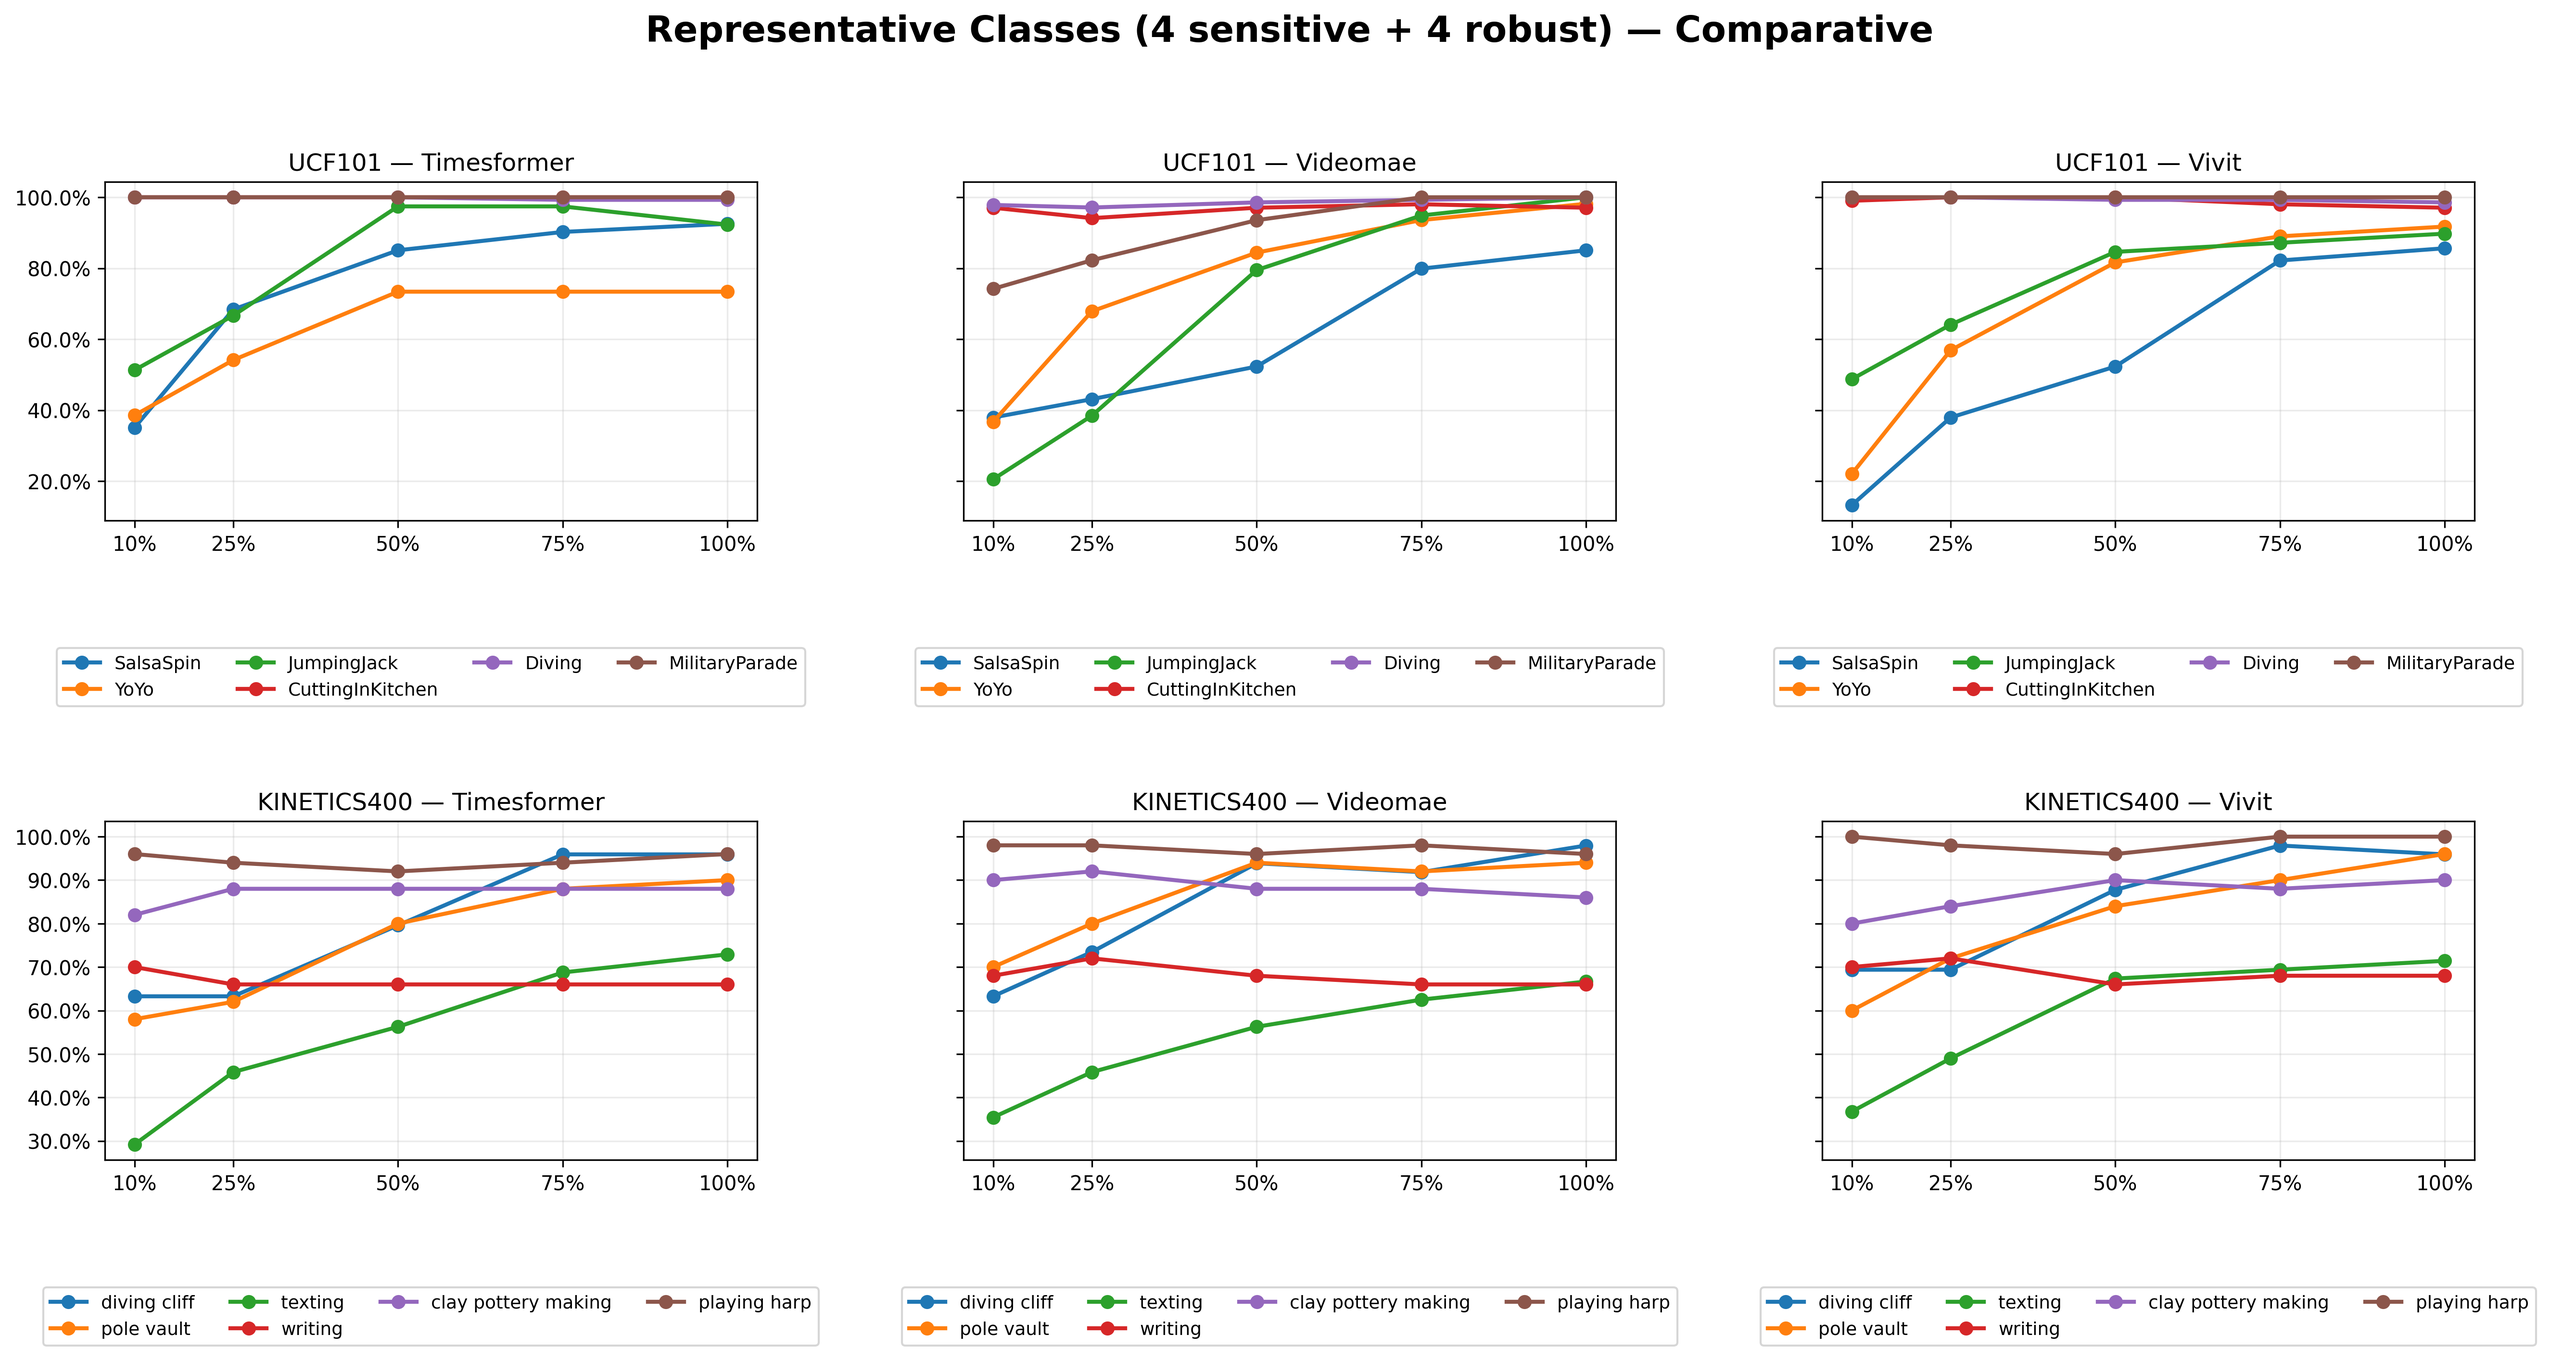
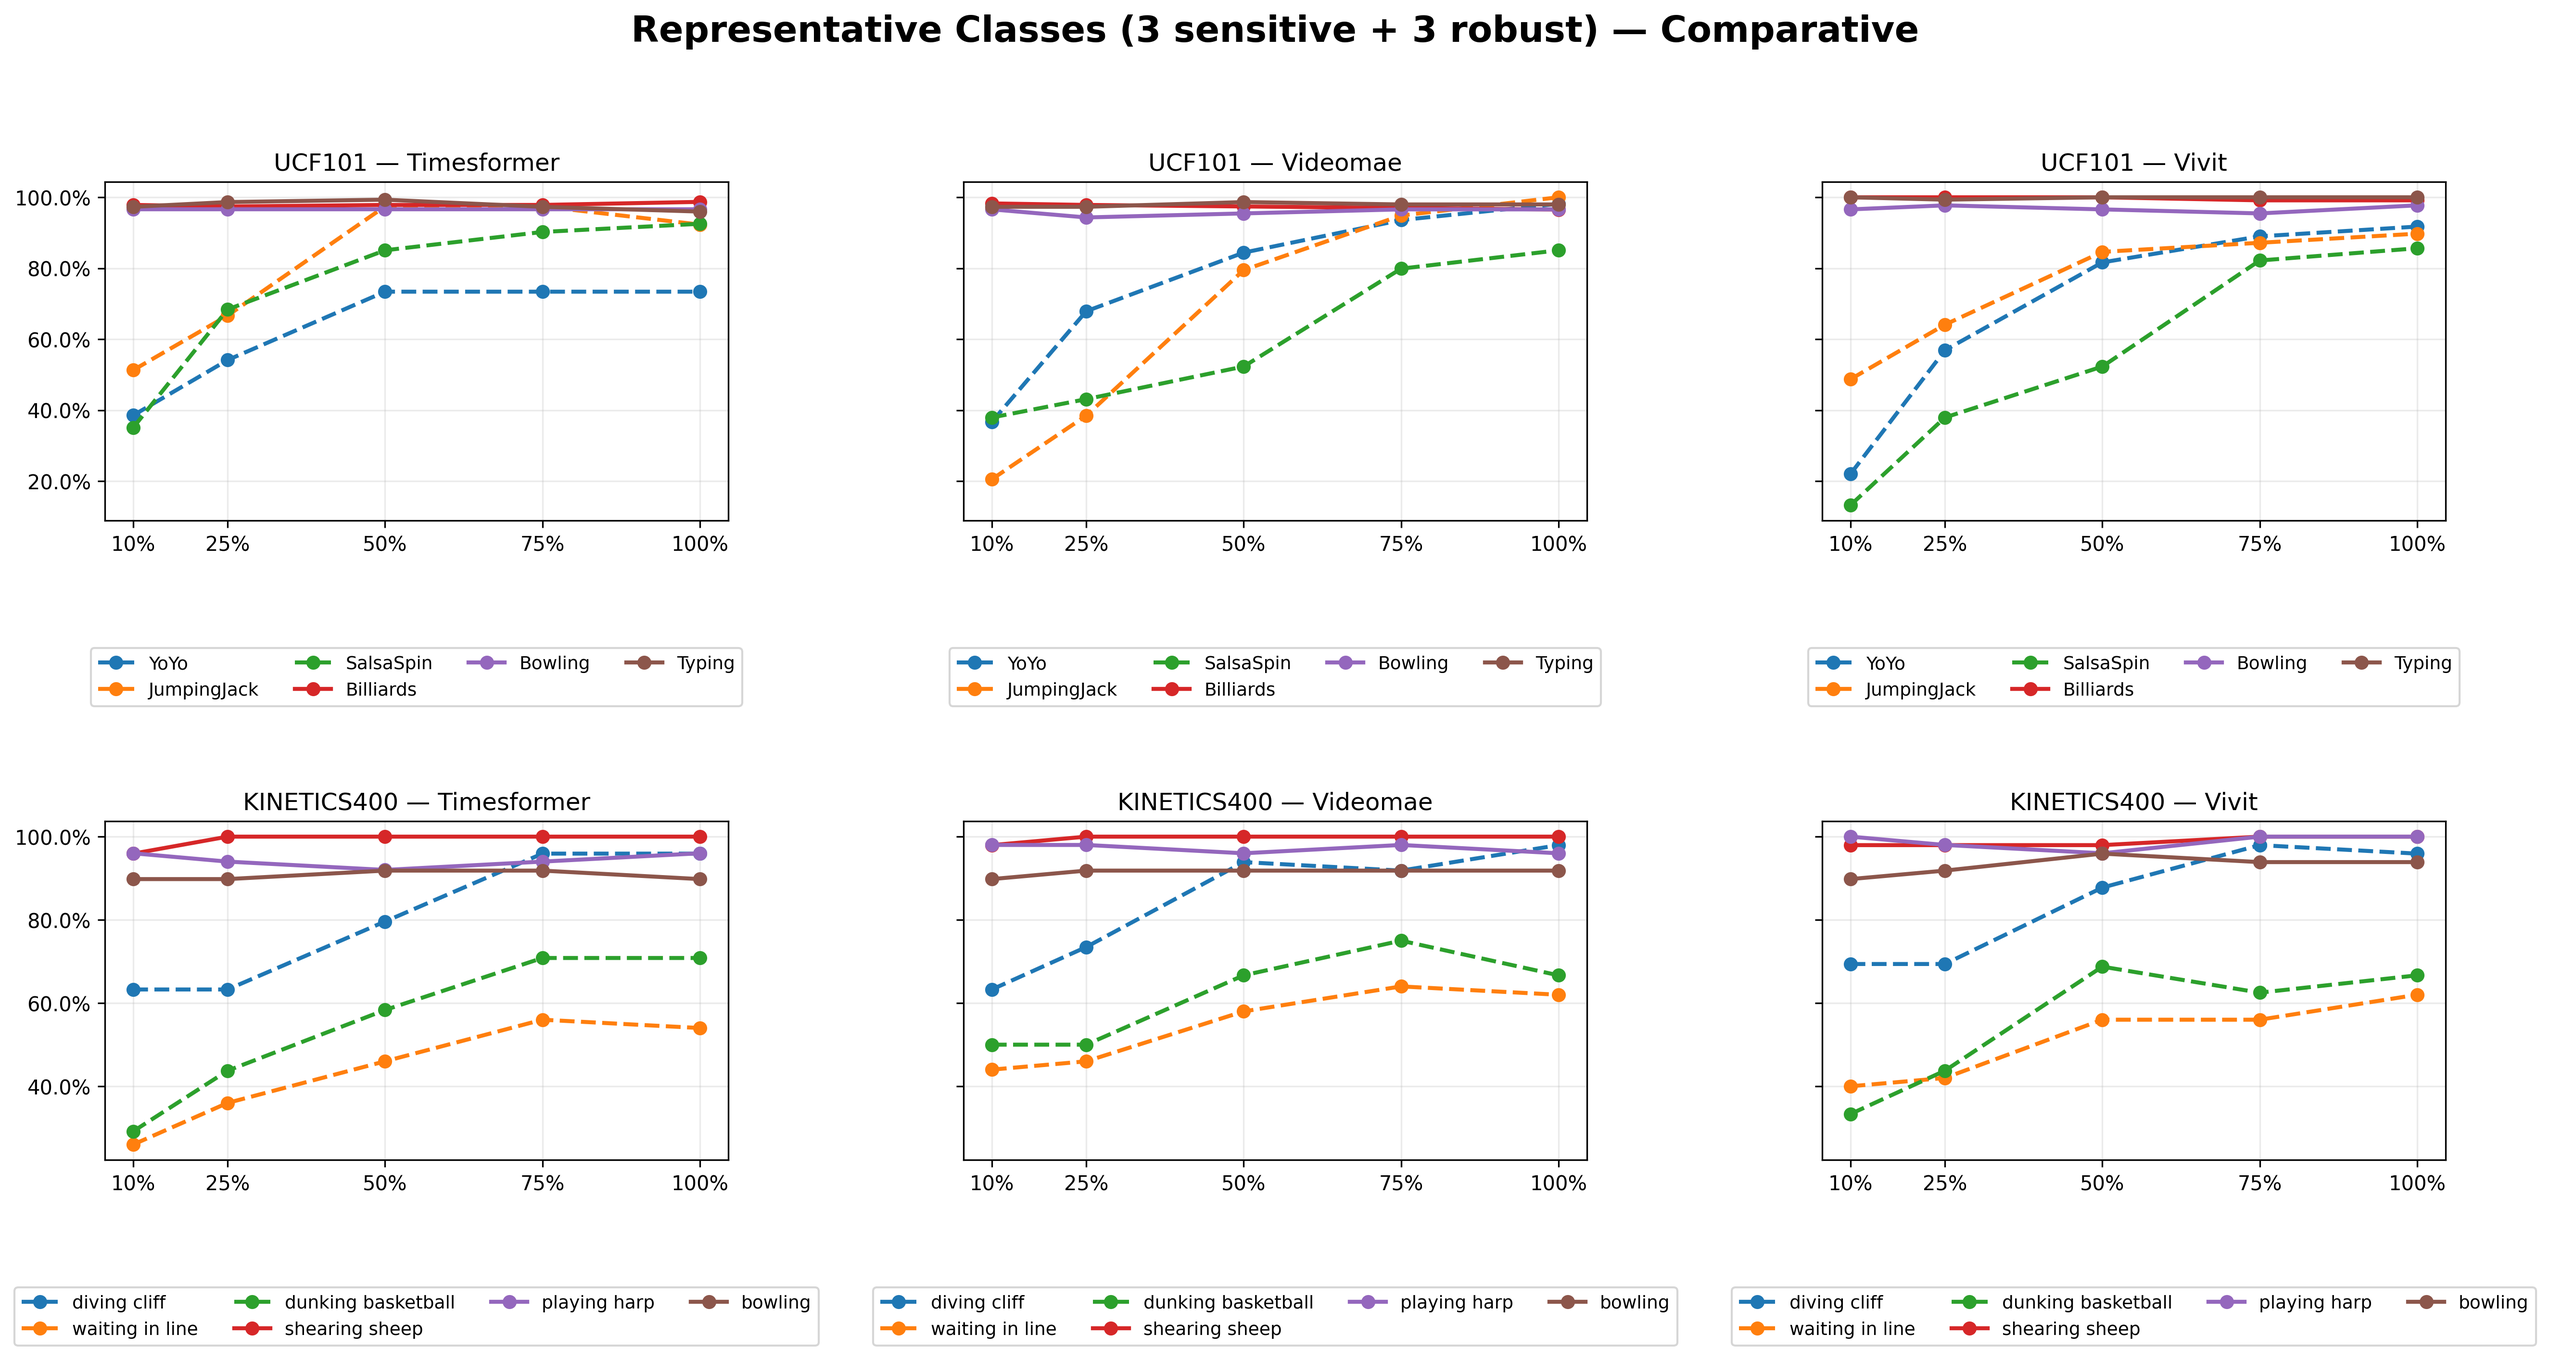
supplementaty

diff --git a/scripts/plotting/generate_analysis_plots.py b/scripts/plotting/generate_analysis_plots.py
@@ -122,37 +122,85 @@ def generate_distribution_plot(per_class_csv, output_dir, model_name, stride=8):
     print(f"✅ Saved: {output_path} and {output_path_hi}")
 
 def compute_shared_classes(models_dirs, n_sensitive=3, n_robust=3, max_total=6):
-    """Compute a shared set of representative classes across multiple model per-class CSVs.
+    """Compute a shared set of representative classes for a dataset by aggregating metrics across models.
 
-    For each model, we pick the top `n_sensitive` classes (largest 100→25 drop) and the top
-    `n_robust` classes (smallest variance across coverages). Then we take the union across
-    models and limit to `max_total` classes (3 sensitive + 3 robust) so each representative
-    plot displays exactly 6 classes for clear comparison across models within a dataset.
+    For each model, compute per-class 100→25 drop (at stride=8 when available, else best stride), and per-class
+    variance across coverages. Aggregate these metrics across models (mean) and then select the top
+    `n_sensitive` classes by mean drop and the top `n_robust` by mean variance (smallest). Return up to
+    `max_total` unique classes, preserving the sensitivity-first ordering (sensitive then robust).
     """
-    shared = []
+    from collections import defaultdict
+    import numpy as _np
+
+    drops = defaultdict(list)    # class -> list of drops (in percent)
+    variances = defaultdict(list)  # class -> list of variances (unit same as accuracy*100)
+
     for mdir in models_dirs:
         matches = list(Path(mdir).glob("*per_class*.csv"))
         if not matches:
             continue
-        df = pd.read_csv(matches[0])
-        # Use stride=8 for stability (consistent with other plots)
-        df8 = df[df['stride'] == 8]
-        pivot = df8.groupby(['class', 'coverage'], as_index=False)['accuracy'].mean().pivot(index='class', columns='coverage', values='accuracy')
-        if 100 not in pivot.columns or 25 not in pivot.columns:
+
+        # Prefer a per-class CSV with coverage/stride/accuracy columns
+        chosen = None
+        for p in matches:
+            try:
+                df_test = pd.read_csv(p, nrows=3)
+                if {'coverage', 'stride', 'accuracy'}.issubset(set(df_test.columns)):
+                    chosen = p
+                    break
+            except Exception:
+                continue
+        # Fallback: use aliasing_drop CSV if present
+        if chosen is None:
+            for p in matches:
+                try:
+                    df_test = pd.read_csv(p, nrows=3)
+                    if 'aliasing_drop' in df_test.columns:
+                        chosen = p
+                        break
+                except Exception:
+                    continue
+        if chosen is None:
             continue
-        drop_100_to_25 = (pivot[100] - pivot[25]).sort_values(ascending=False)
-        sensitive = drop_100_to_25.head(n_sensitive).index.tolist()
-        variance = pivot.var(axis=1).sort_values()
-        robust = variance.head(n_robust).index.tolist()
-        shared.extend(sensitive + robust)
-    # Preserve order, unique, and limit total
-    unique_shared = []
-    for c in shared:
-        if c not in unique_shared:
-            unique_shared.append(c)
-        if len(unique_shared) >= max_total:
+
+        df = pd.read_csv(chosen)
+
+        if 'stride' in df.columns and 'coverage' in df.columns and 'accuracy' in df.columns:
+            # Prefer stride=8; if not present, use model's best stride by mean accuracy
+            stride = 8 if 8 in df['stride'].unique() else int(df.groupby('stride')['accuracy'].mean().idxmax())
+            dfs = df[df['stride'] == stride]
+            pivot = dfs.groupby(['class', 'coverage'], as_index=False)['accuracy'].mean().pivot(index='class', columns='coverage', values='accuracy')
+            if 100 not in pivot.columns or 25 not in pivot.columns:
+                continue
+            drop = (pivot[100] - pivot[25]) * 100.0
+            var = pivot.var(axis=1) * 100.0
+            for cls in drop.index:
+                drops[cls].append(drop.loc[cls])
+                variances[cls].append(var.loc[cls])
+        else:
+            # Use aliasing_drop if available (already scaled to fraction)
+            if 'aliasing_drop' in df.columns:
+                for _, row in df.iterrows():
+                    drops[row['class']].append(row['aliasing_drop'] * 100.0)
+
+    # Compute mean metrics across models
+    mean_drop = {cls: _np.mean(vals) for cls, vals in drops.items() if len(vals) > 0}
+    mean_var = {cls: _np.mean(variances[cls]) for cls in variances if len(variances[cls]) > 0}
+
+    # Rank classes
+    sens_sorted = sorted(mean_drop.items(), key=lambda x: x[1], reverse=True)
+    robust_sorted = sorted(mean_var.items(), key=lambda x: x[1])  # low variance -> robust
+
+    sensitive = [c for c, _ in sens_sorted[:n_sensitive]]
+    robust = [c for c, _ in robust_sorted[:n_robust]]
+
+    shared = []
+    for c in sensitive + robust:
+        if c not in shared:
+            shared.append(c)
+        if len(shared) >= max_total:
             break
-    return unique_shared
+    return shared
 
 
 def generate_representative_plot(per_class_csv, output_dir, model_name, dataset_name=None, shared_classes=None):
@@ -354,8 +402,8 @@ def generate_coverage_curves_composite(evaluations_base_dir, output_dir):
 def generate_representative_composite(evaluations_base_dir, output_dir):
     """Generate a 2×3 composite of representative class curves.
 
-    Rows = datasets (UCF-101, Kinetics-400), columns = models (TimeSformer, VideoMAE, ViViT).
-    Each subplot uses the same 8 classes (4 sensitive + 4 robust) per dataset.
+    Rows = datasets (UCF-101, Kinetics-400), columns = models (TimeSFormer, VideoMAE, ViViT).
+    Each subplot uses the same 6 classes (3 sensitive + 3 robust) per dataset.
     """
     print("🧩 Generating representative 2×3 composite...")
 
@@ -368,6 +416,81 @@ def generate_representative_composite(evaluations_base_dir, output_dir):
         # Compute shared classes for this dataset
         model_dirs = [Path(evaluations_base_dir) / dataset / m for m in models]
         shared = compute_shared_classes(model_dirs, n_sensitive=3, n_robust=3, max_total=6)
+
+        # Compute per-class mean drop and variance across models to classify sensitivity (for line style)
+        from collections import defaultdict
+        drops = defaultdict(list)
+        variances = defaultdict(list)
+        for mdir in model_dirs:
+            matches = list(Path(mdir).glob("*per_class*.csv"))
+            if not matches:
+                continue
+            # Prefer per-class CSVs with coverage/stride/accuracy
+            chosen = None
+            for p in matches:
+                try:
+                    df_test = pd.read_csv(p, nrows=3)
+                    if {'coverage', 'stride', 'accuracy'}.issubset(set(df_test.columns)):
+                        chosen = p
+                        break
+                except Exception:
+                    continue
+            if chosen is None:
+                for p in matches:
+                    try:
+                        df_test = pd.read_csv(p, nrows=3)
+                        if 'aliasing_drop' in df_test.columns:
+                            chosen = p
+                            break
+                    except Exception:
+                        continue
+            if chosen is None:
+                continue
+
+            dfm = pd.read_csv(chosen)
+            if 'stride' in dfm.columns:
+                stride = 8 if 8 in dfm['stride'].unique() else int(dfm.groupby('stride')['accuracy'].mean().idxmax())
+                dfs = dfm[dfm['stride'] == stride]
+                pivot = dfs.groupby(['class', 'coverage'], as_index=False)['accuracy'].mean().pivot(index='class', columns='coverage', values='accuracy')
+                if 100 in pivot.columns and 25 in pivot.columns:
+                    drop = (pivot[100] - pivot[25]) * 100.0
+                    var = pivot.var(axis=1) * 100.0
+                    for cls in drop.index:
+                        drops[cls].append(drop.loc[cls])
+                        variances[cls].append(var.loc[cls])
+            else:
+                if 'aliasing_drop' in dfm.columns:
+                    for _, row in dfm.iterrows():
+                        drops[row['class']].append(row['aliasing_drop'] * 100.0)
+
+        mean_drop = {cls: sum(vals) / len(vals) for cls, vals in drops.items() if len(vals) > 0}
+        mean_var = {cls: sum(vals) / len(vals) for cls, vals in variances.items() if len(vals) > 0}
+        top_sensitive = set([c for c, _ in sorted(mean_drop.items(), key=lambda x: x[1], reverse=True)][:3])
+        top_robust = set([c for c, _ in sorted(mean_var.items(), key=lambda x: x[1])][:3])
+
+        # Dataset-specific override: force robust choices for Kinetics-400 to higher-consistency candidates
+        if dataset == 'kinetics400':
+            preferred_robust = ['shearing sheep', 'playing harp', 'bowling']
+            # Keep only available preferred robust classes
+            preferred = [c for c in preferred_robust if c in mean_var]
+            # If some preferred classes are missing, supplement from lowest-variance classes
+            if len(preferred) < 3:
+                supplement = [c for c, _ in sorted(mean_var.items(), key=lambda x: x[1]) if c not in preferred][:3-len(preferred)]
+                preferred.extend(supplement)
+            # Build the robust set and recompute sensitive set (exclude robust)
+            top_robust = set(preferred[:3])
+            # Select top 3 sensitive by mean_drop excluding robust choices
+            sensitive_list = [c for c, _ in sorted(mean_drop.items(), key=lambda x: x[1], reverse=True) if c not in top_robust]
+            top_sensitive = set(sensitive_list[:3])
+            # Construct ordered shared list: sensitive then robust, ensure uniqueness and length 6
+            ordered = list(sensitive_list[:3]) + list(preferred[:3])
+            unique_shared = []
+            for c in ordered:
+                if c not in unique_shared:
+                    unique_shared.append(c)
+                if len(unique_shared) >= 6:
+                    break
+            shared = unique_shared
 
         for j, model in enumerate(models):
             ax = axes[i, j]
@@ -390,7 +513,8 @@ def generate_representative_composite(evaluations_base_dir, output_dir):
                 if cls not in pivot.index:
                     continue
                 accuracies = [pivot.loc[cls, cov] * 100.0 for cov in coverages]
-                ax.plot(coverages, accuracies, label=cls, color=pal[k % len(pal)], linewidth=2, marker='o')
+                linestyle = '--' if cls in top_sensitive else '-'
+                ax.plot(coverages, accuracies, label=cls, color=pal[k % len(pal)], linewidth=2, marker='o', linestyle=linestyle)
 
             ax.set_title(f"{dataset.upper()} — {model.capitalize()}", fontsize=12)
             ax.set_xticks(coverages)
@@ -401,7 +525,7 @@ def generate_representative_composite(evaluations_base_dir, output_dir):
             # Legend below compact
             ax.legend(ncol=4, bbox_to_anchor=(0.5, -0.35), loc='upper center', fontsize=9)
 
-    fig.suptitle('Representative Classes (4 sensitive + 4 robust) — Comparative', fontsize=18, fontweight='bold')
+    fig.suptitle('Representative Classes (3 sensitive + 3 robust) — Comparative', fontsize=18, fontweight='bold')
     plt.tight_layout(rect=[0, 0, 1, 0.94])
 
     out = Path(output_dir) / 'per_class_representative_composite.png'

diff --git a/docs/supplementary_per_class_metrics.md b/docs/supplementary_per_class_metrics.md
@@ -1,0 +1,18 @@
+# Supplementary Table S1 — Per-class mean drops & variances
+
+This table lists per-class mean 100→25 accuracy drops (%) and mean variance across coverage (%) aggregated across models, plus per-model breakdowns (drops and variances). Classes chosen for Figure 3 are the 3 sensitive and 3 robust per dataset shown below.
+
+| Dataset | Class | Role | Mean Drop (%) | Mean Var (%) | Presence | Timesformer Drop | Videomae Drop | ViViT Drop | Timesformer Var | Videomae Var | ViViT Var |
+| --- | --- | --- | --- | --- | --- | --- | --- | --- | --- | --- | --- |
+| ucf101 | YoYo | sensitive | 51.376 | 9.808 | 3 | 25.688 | 54.128 | 74.312 | 4.343 | 11.573 | 13.506 |
+| ucf101 | JumpingJack | sensitive | 47.009 | 8.459 | 3 | 25.641 | 64.103 | 51.282 | 4.142 | 9.158 | 12.078 |
+| ucf101 | SalsaSpin | sensitive | 43.487 | 6.799 | 3 | 35.058 | 40.23 | 55.172 | 7.857 | 6.071 | 6.468 |
+| ucf101 | Billiards | robust | -0.718 | 0.002 | 3 | -0.431 | -1.293 | -0.431 | 0.001 | 0.004 | 0.001 |
+| ucf101 | Bowling | robust | 0.379 | 0.004 | 3 |  |  | 1.136 | 0.003 | 0.004 | 0.006 |
+| ucf101 | Typing | robust | -0.447 | 0.005 | 3 | -1.342 | 0.671 | -0.671 | 0.005 | 0.008 | 0.003 |
+| kinetics400 | diving cliff | sensitive | 31.293 | 2.979 | 3 | 34.694 | 34.694 | 24.49 | 2.853 | 4.885 | 1.2 |
+| kinetics400 | waiting in line | sensitive | 30.667 | 3.631 | 3 | 20.0 | 56.0 | 16.0 | 2.288 | 7.952 | 0.652 |
+| kinetics400 | dunking basketball | sensitive | 29.167 | 2.558 | 3 | 33.333 | 18.75 | 35.417 | 3.832 | 0.985 | 2.856 |
+| kinetics400 | shearing sheep | robust | 1.361 | 0.026 | 3 |  | 2.041 | 2.041 | 0.033 | 0.033 | 0.012 |
+| kinetics400 | playing harp | robust | -0.667 | 0.027 | 3 | 2.0 |  | -4.0 | 0.028 | 0.032 | 0.02 |
+| kinetics400 | bowling | robust | 1.361 | 0.031 | 3 |  | 2.041 | 2.041 | 0.029 | 0.029 | 0.033 |
